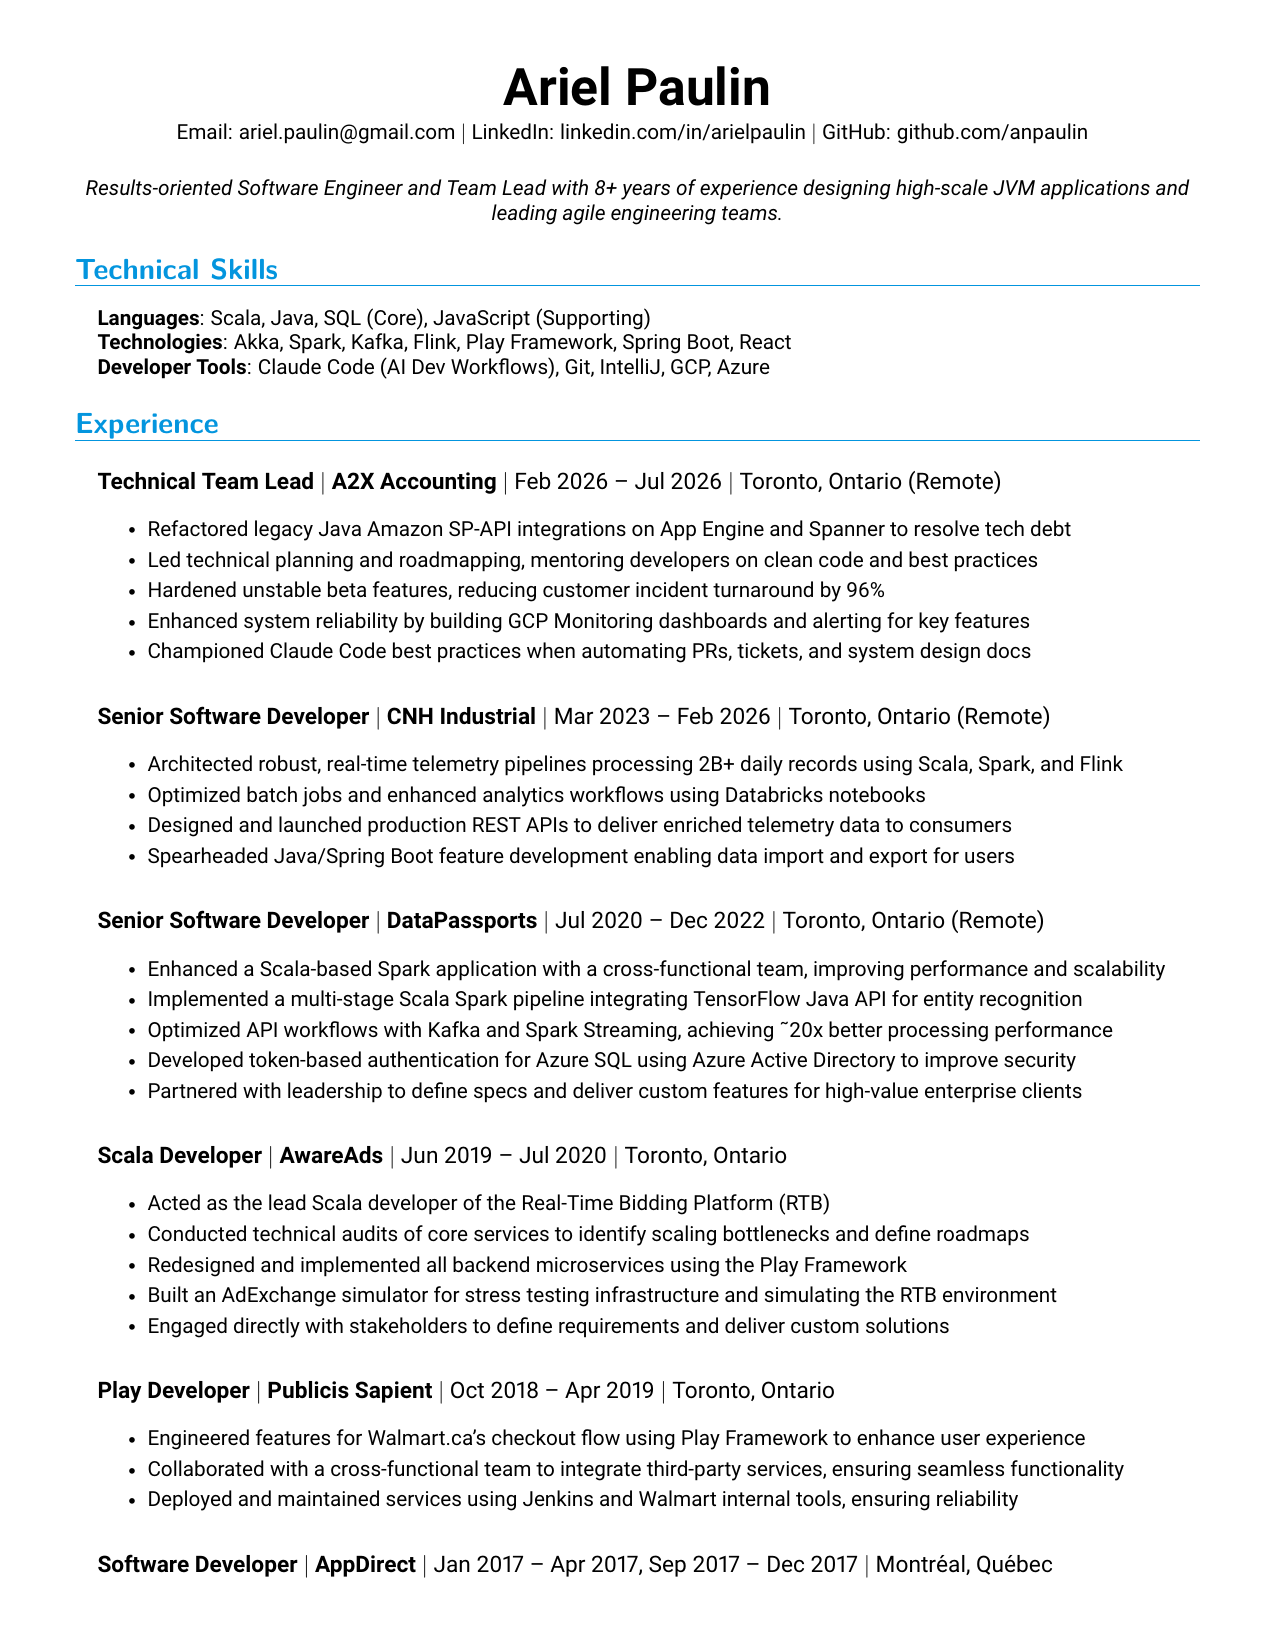
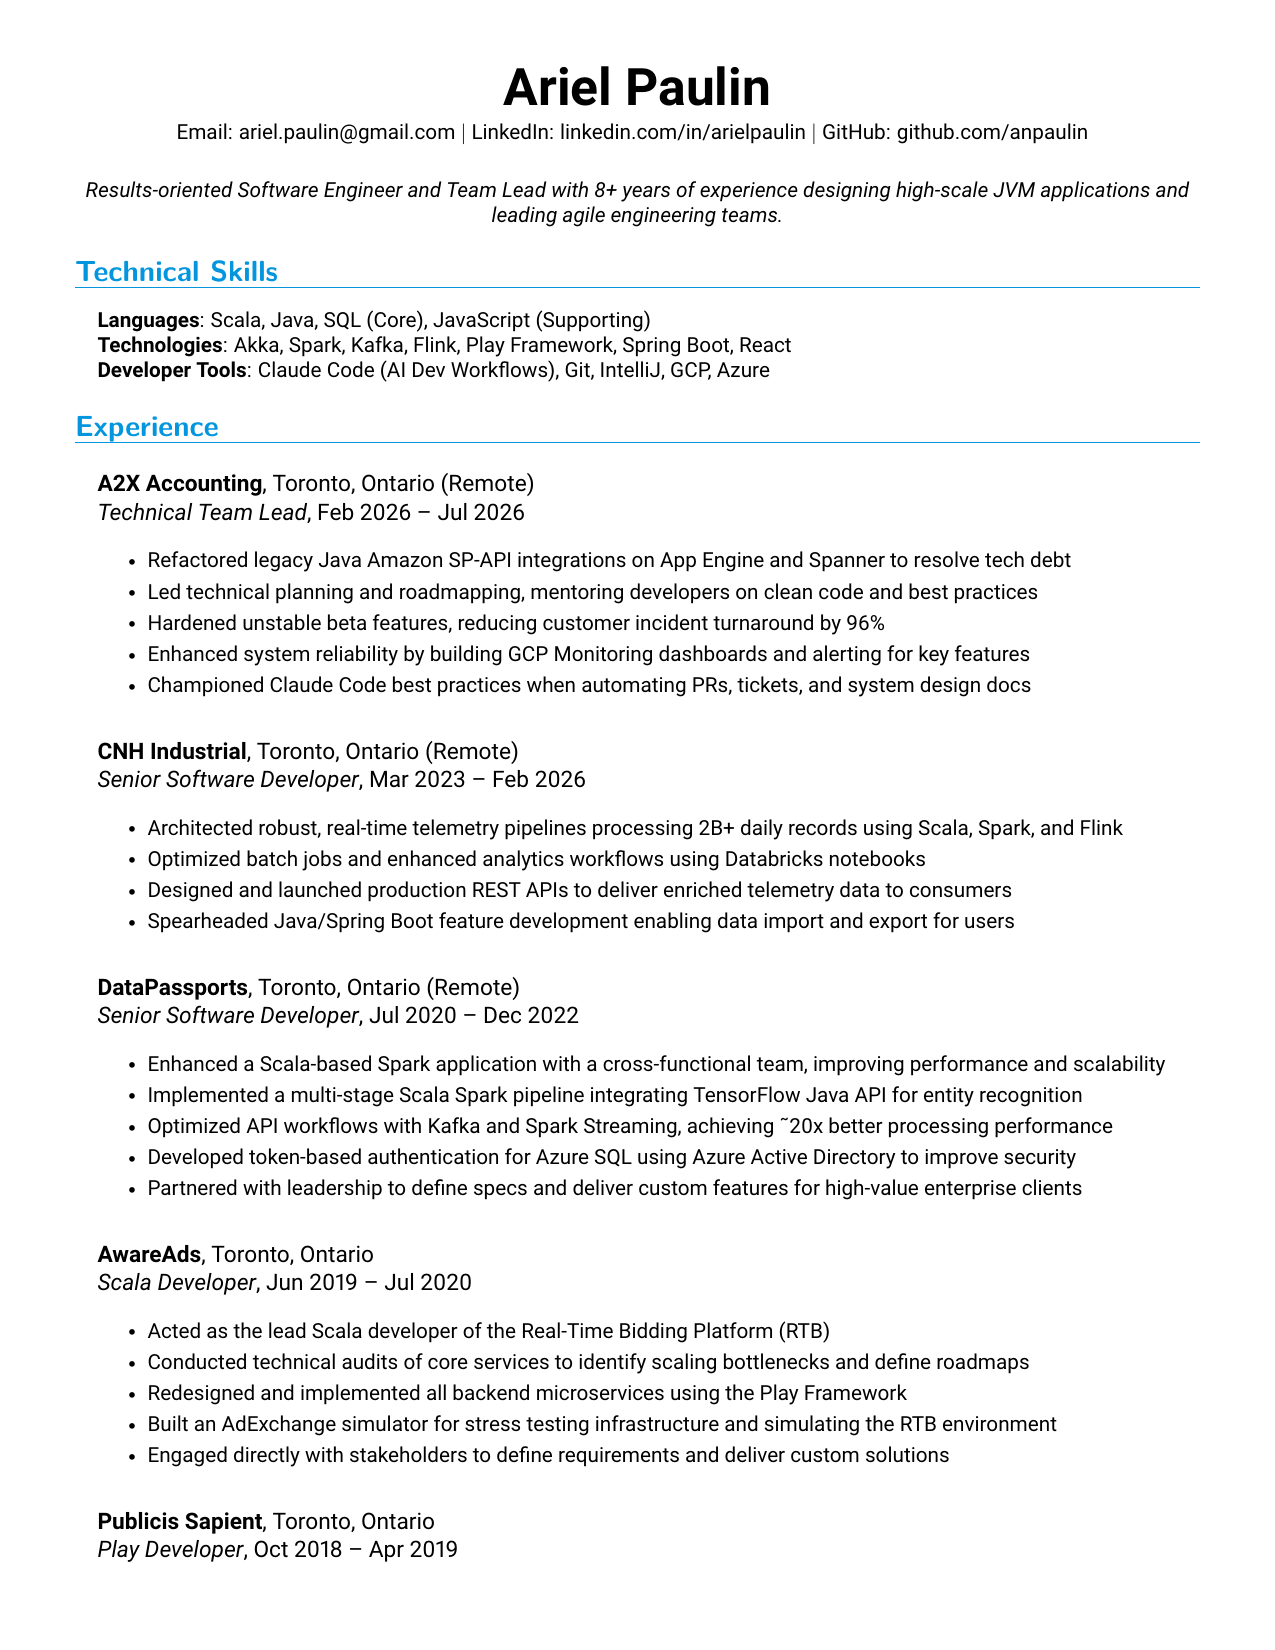
Change ATS job subheading layout to company-first, two-line layout for perfect Workday parsing

Changed region(s): [[0.0612, 0.1545, 0.9176, 0.9582], [0.0612, 0.0927, 0.9176, 0.1545]]

diff --git a/ariel_paulin_ats.tex b/ariel_paulin_ats.tex
@@ -69,7 +69,8 @@
 % Standard layout for ATS parsing
 \newcommand{\resumeSubheading}[4]{
   \vspace{4pt}\item
-    \textbf{#1} $|$ \textbf{#3} $|$ #2 $|$ #4
+    \textbf{#3}, #4 \\
+    \textit{#1}, #2
   \vspace{2pt}
 }
 
